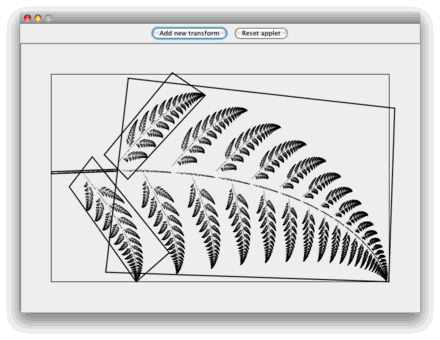
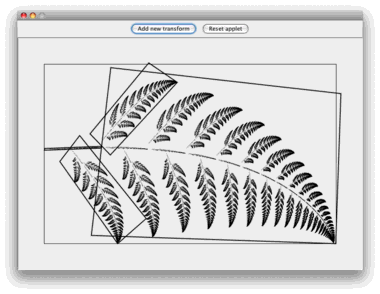
Sarah fixed my crappy HTML.
git-svn-id: file:///home/pauldoo/Programs/svnrepo@342 8e395407-42ff-0310-94d9-ec183df6106f

diff --git a/Fractals/IteratedFunctionSystem.html b/Fractals/IteratedFunctionSystem.html
@@ -3,13 +3,48 @@
     <head>
         <meta http-equiv="Content-Type" content="text/html; charset=UTF-8"/>
         <title>Iterated Function System</title>
+        <style>
+            #outer{
+                width:800px;
+                margin:0 auto;
+                background-color:#dddddd;
+                padding:30px;
+                font-family:Verdana, Arial, Helvetica, Sans-Serif;
+                font-size:0.8em;
+                color:#333333;
+             }
+             
+             h1{
+                 margin-top:0;
+                 font-size:1.4em;
+                 border-bottom:1px solid #333333;
+                 clear:both;
+                 }
+                 
+                .example{
+                     width:390px;
+                     float:left;
+                     margin:2px;
+                    
+                     text-align:center;
+                     font-size:0.8em;
+                     }
+                     
+                    .example p{
+                        margin-top:0;
+                        }
+        </style>
     </head>
     <body>
+        <div id="outer">
+            <h1>Iterated Function System</h1>
         <p>Before you begin, see these examples for ideas.</p>
-        <p>Sierpiński triangle, created with 3 transforms:<br/><img src="images/ifs_triangle.png"/></p>
-        <p>Sierpiński gasket, created with 8 transforms:<br/><img src="images/ifs_gasket.png"/></p>
-        <p>Fern, created with 4 transforms:<br/><img src="images/ifs_fern.png"/></p>
-        <p>
+        <div class="example"><img src="images/ifs_triangle.png"/><p>Sierpiński triangle, created with 3 transforms</p></div>
+        <div class="example"><img src="images/ifs_gasket.png"/><p>Sierpiński gasket, created with 8 transforms</p></div>
+        <div class="example"><img src="images/ifs_fern.png"/><p>Fern, created with 4 transforms</p></div>
+        <div class="example"><img src="images/ifs_feather.png"/><p>Feathers, created with 2 transforms</p></div>
+        <h1>Give it a go...</h1>
+        <p><strong>Add transforms to the view and manipulate them by dragging their corners or edges.</strong></p>
             <object
                 classid = "clsid:8AD9C840-044E-11D1-B3E9-00805F499D93"
                 width = "800" height = "600" >
@@ -33,9 +68,10 @@
                     </embed>
                 </comment>
             </object>
-        </p>
-        <p><em>Wiki page for comments:</em> <a href="http://pauldoo.dyndns.org/Programs/wiki/Iterated%20Function%20System">http://pauldoo.dyndns.org/Programs/wiki/Julia%20Fractal%20Applet</a></p>
+        
+        <p><em>Wiki page for comments:</em> <a href="http://pauldoo.dyndns.org/Programs/wiki/Iterated%20Function%20System">http://pauldoo.dyndns.org/Programs/wiki/Iterated%20Function%20System</a></p>
 
-        <p>Add transforms to the view and manipulate them by dragging their corners or edges.</p>
+        
+    </div>
     </body>
 </html>

diff --git a/Fractals/src/fractals/DraggableQuadrilateral.java b/Fractals/src/fractals/DraggableQuadrilateral.java
@@ -33,6 +33,7 @@ import java.awt.geom.Line2D;
 import java.awt.geom.Point2D;
 import java.util.ArrayList;
 import java.util.List;
+import java.util.Random;
 import javax.swing.JComponent;
 import javax.swing.JLayeredPane;
 
@@ -53,10 +54,10 @@ final class DraggableQuadrilateral extends JComponent implements MouseListener, 
     /// Stroke used to render an outline shape used for selection.
     private static final Stroke SELECTING_STROKE = new BasicStroke((float)SELECTING_FUZZ);
     
-    private Point2D.Double cornerA = new Point2D.Double(100, 100);
-    private Point2D.Double cornerB = new Point2D.Double(200, 100);
-    private Point2D.Double cornerC = new Point2D.Double(200, 200);
-    private Point2D.Double cornerD = new Point2D.Double(100, 200);
+    private Point2D.Double cornerA;
+    private Point2D.Double cornerB;
+    private Point2D.Double cornerC;
+    private Point2D.Double cornerD;
     
     private boolean isBeingHoveredOver = false;
     private Point dragStart = null;
@@ -70,6 +71,12 @@ final class DraggableQuadrilateral extends JComponent implements MouseListener, 
      
     DraggableQuadrilateral()
     {
+        Random rng = new Random();
+        cornerA = new Point2D.Double(100 + rng.nextInt(100), 100 + rng.nextInt(100));
+        cornerB = new Point2D.Double(300 + rng.nextInt(100), 100 + rng.nextInt(100));
+        cornerC = new Point2D.Double(300 + rng.nextInt(100), 300 + rng.nextInt(100));
+        cornerD = new Point2D.Double(100 + rng.nextInt(100), 300 + rng.nextInt(100));
+        
         setOpaque(false);
         setRequestFocusEnabled(true);
         addMouseListener(this);

diff --git a/Fractals/src/fractals/BackgroundRenderingComponent.java b/Fractals/src/fractals/BackgroundRenderingComponent.java
@@ -95,6 +95,9 @@ abstract class BackgroundRenderingComponent extends JComponent
             {
                 Graphics2D g = null;
                 try {
+                    if (getWidth() == 0 || getHeight() == 0) {
+                        return;
+                    }
                     buffer = new BufferedImage(getWidth(), getHeight(), BufferedImage.TYPE_INT_ARGB);
                     if (Thread.interrupted()) throw new InterruptedException();
                     g = (Graphics2D)buffer.getGraphics();

diff --git a/Fractals/src/fractals/IteratedFunctionSystem.java b/Fractals/src/fractals/IteratedFunctionSystem.java
@@ -69,10 +69,8 @@ final class IteratedFunctionSystem extends BackgroundRenderingComponent implemen
         JPanel buttonPanel = ifs.createButtonPanel();
         root.add(buttonPanel, BorderLayout.NORTH);
 
-        DraggableQuadrilateral quad = new DraggableQuadrilateral();
-        quad.addListener(ifs);
-        nestedPanel.add(quad);
-
+        ifs.removeAllDraggableQuadrilaterals();
+        
         return root;
     }
 
